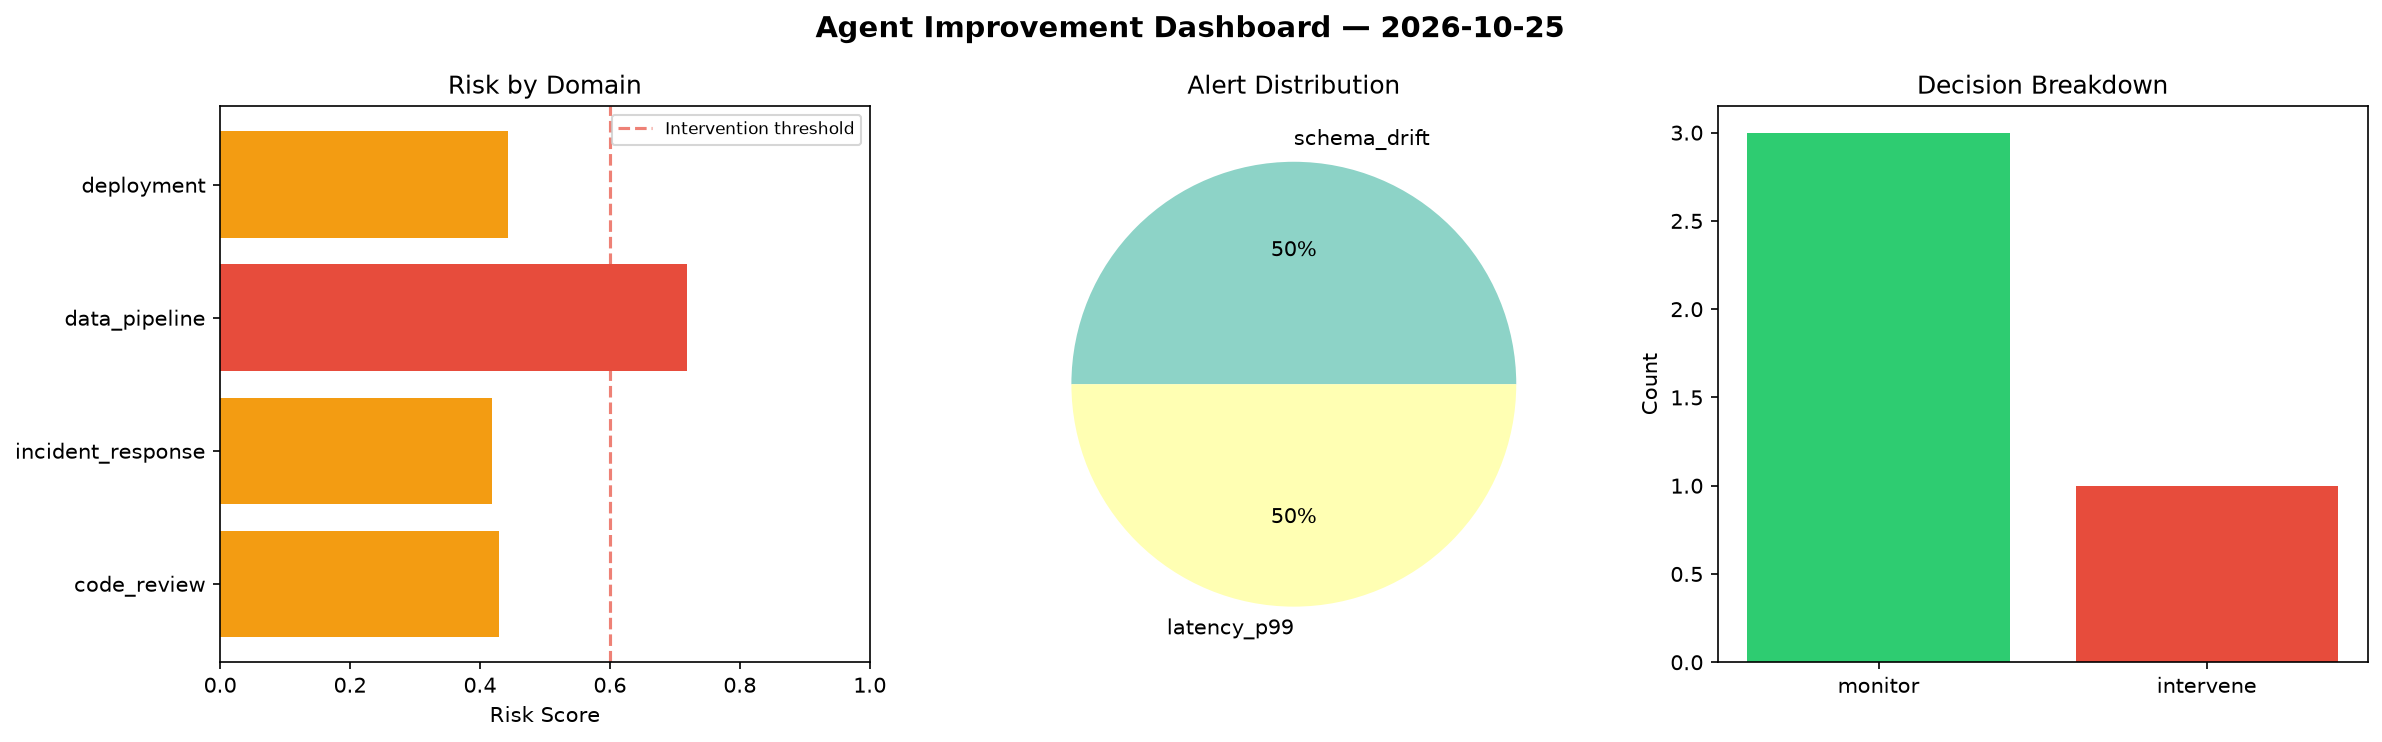
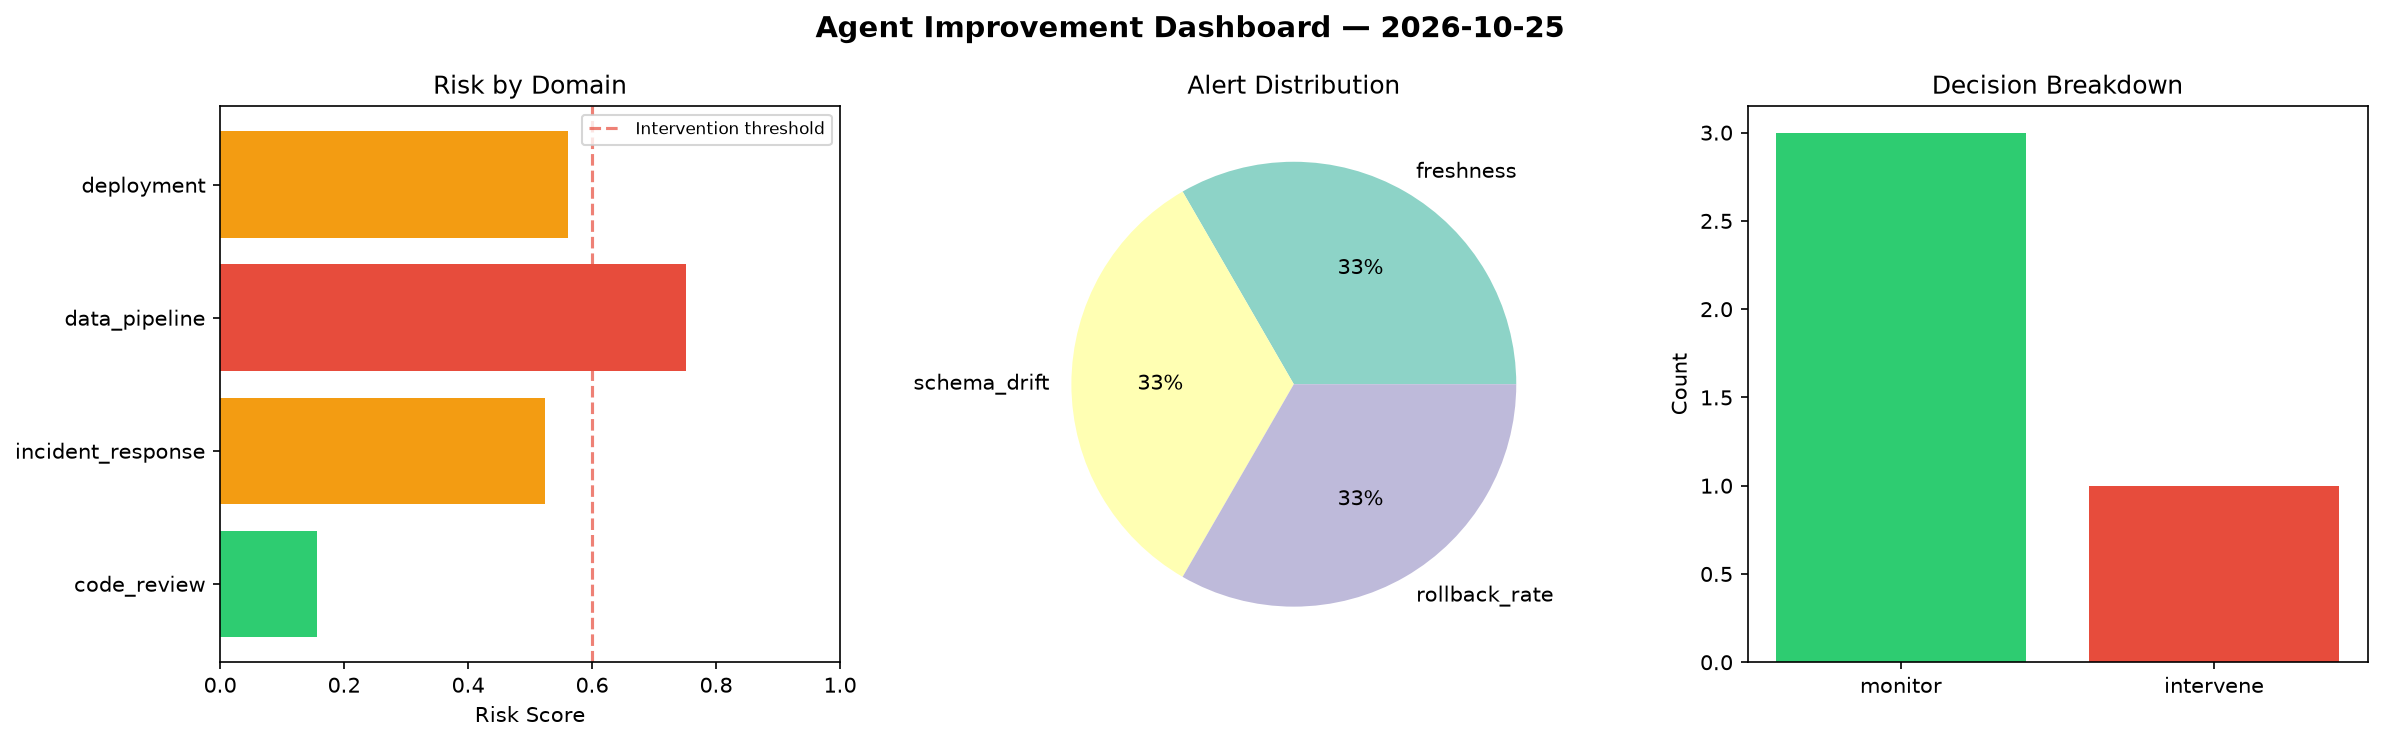
agent-improvement: daily cycle 2026-10-25T22:31

diff --git a/logs/2026-10-25.md b/logs/2026-10-25.md
@@ -1,6 +1,6 @@
 # Agent Improvement Report — 2026-10-25
 
-**Cycle ID:** `3958f4db` | **Avg Risk:** 0.502 | **Interventions:** 1/4
+**Cycle ID:** `3be47256` | **Avg Risk:** 0.4984 | **Interventions:** 1/4
 
 ![Dashboard](2026-10-25_dashboard.png)
 
@@ -10,18 +10,18 @@
 
 | Domain | Risk Score | Decision | Alerts |
 |--------|-----------|----------|--------|
-| code_review | 0.4287 | monitor | none |
-| incident_response | 0.418 | monitor | none |
-| data_pipeline | 0.7186 | intervene | schema_drift |
-| deployment | 0.4428 | monitor | latency_p99 |
+| code_review | 0.1567 | monitor | none |
+| incident_response | 0.5243 | monitor | none |
+| data_pipeline | 0.7507 | intervene | freshness, schema_drift |
+| deployment | 0.5617 | monitor | rollback_rate |
 
 ## Delta vs Yesterday
 
 | Domain | Today | Yesterday | Change |
 |--------|-------|-----------|--------|
-| code_review | 0.4287 | 0.6663 | 📉 -35.7% |
-| incident_response | 0.418 | 0.5285 | 📉 -20.9% |
-| data_pipeline | 0.7186 | 0.3473 | 📈 106.9% |
-| deployment | 0.4428 | 0.4362 | 📈 1.5% |
+| code_review | 0.1567 | 0.6663 | 📉 -76.5% |
+| incident_response | 0.5243 | 0.5285 | 📉 -0.8% |
+| data_pipeline | 0.7507 | 0.3473 | 📈 116.2% |
+| deployment | 0.5617 | 0.4362 | 📈 28.8% |
 
 **Refinement:** `{'adjustment': 'tighten_thresholds', 'trend': 'degrading', 'window': 4}`
